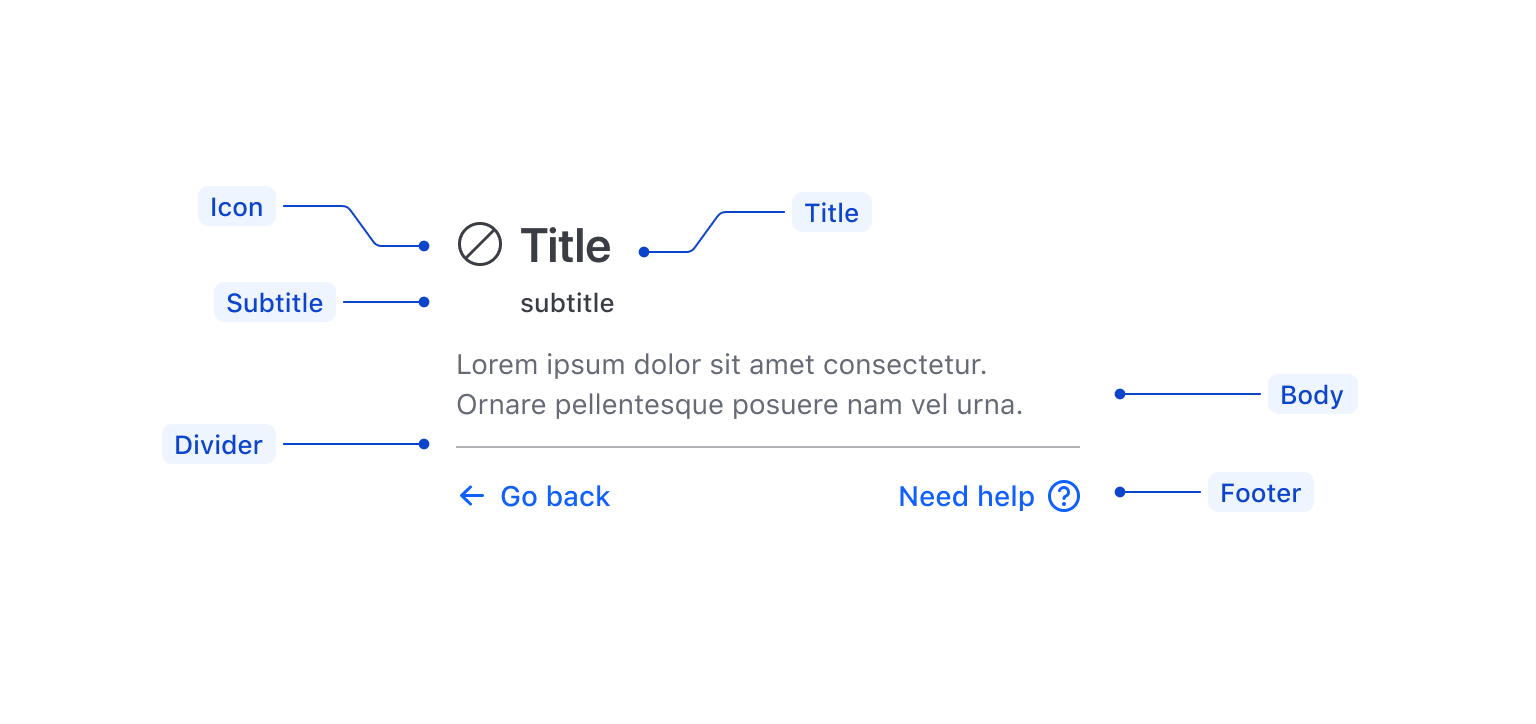
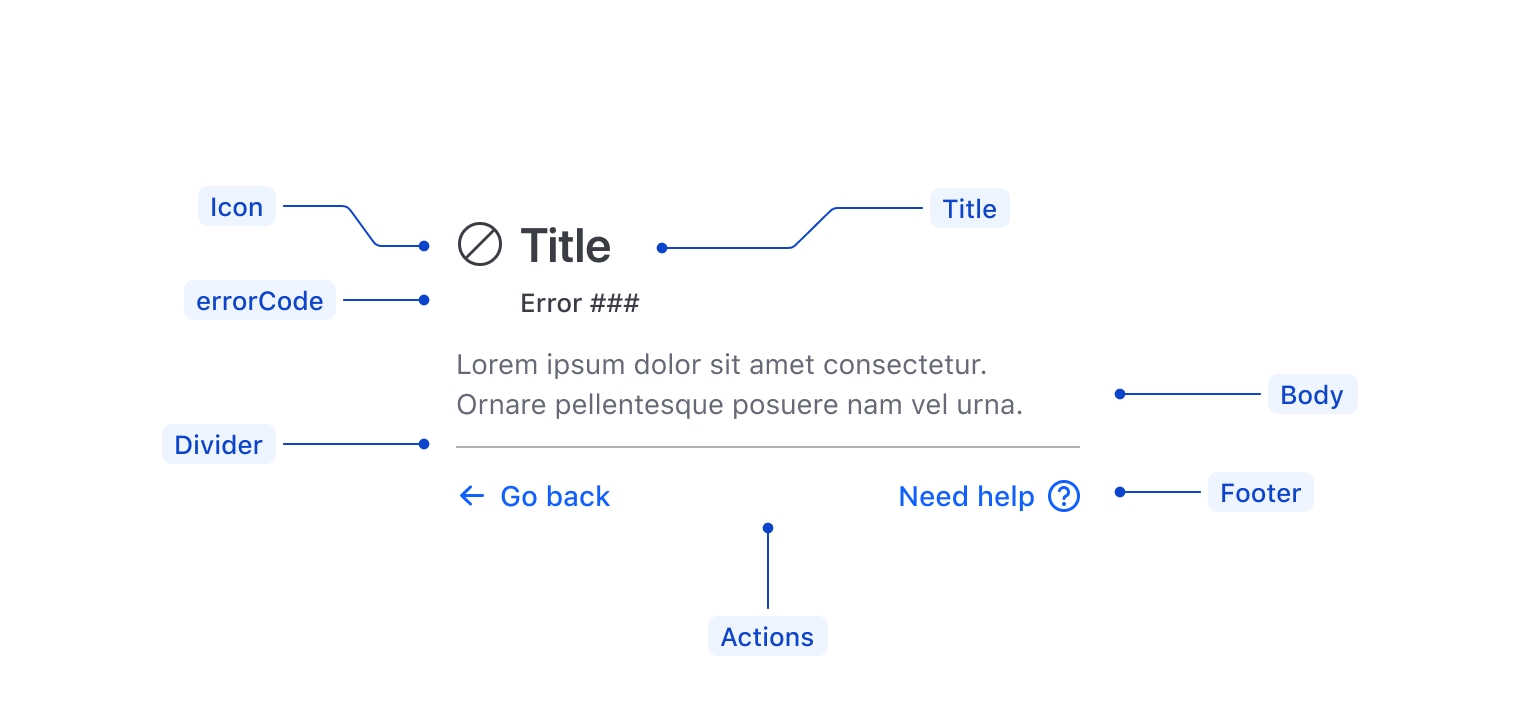
Documentation Update

diff --git a/website/docs/components/application-state/partials/guidelines/guidelines.md b/website/docs/components/application-state/partials/guidelines/guidelines.md
@@ -1,11 +1,27 @@
 ## Usage
 
 ### When to use
-- When the user needs more information to complete a task, you can use footer actions to guide them to the appropriate location for that information.
-- When the user encounters an error or needs to fix a problem, you can use footer actions in the Application State to provide them with appropriate steps to solve the error or obtain access.
+- When a user's action does not yield any results due to incorrect or incomplete input.
+- When an application encounters an issue or error during its operation.
+
 ### When not to use
-An Application State may not be necessary in the following scenarios:
-- Simple interfaces
-- Single-page applications
-- Temporary actions
-- Non-linear user flows
+- When the absence of content is expected and does not require an explanation to the user. 
+- When there is a clear and intuitive way to add or populate content. 
+
+<br/>
+<br/>
+
+### Header 
+- The icon should be relevant and communicate the same purpose as the errorCode.
+- The title should be short to provide a clear and concise message.
+
+### Body 
+- Focus on relevant information and avoid unnecessary details.
+- Provide a straightforward explanation of the problem or error.
+- Suggestions or guidance for how the user can resolve the issue, if possible.
+
+### Footer
+- In the footer, you can include two stand-alone links. It's important to avoid replacing these links with call-to-action buttons (CTA) as doing so may cause misalignment with the code.
+
+#### Divider (optional)
+Dividers are optional but recommended when dividing content and actions. 

diff --git a/website/docs/components/application-state/partials/specifications/anatomy.md b/website/docs/components/application-state/partials/specifications/anatomy.md
@@ -1,3 +1,13 @@
 ## Anatomy
 
-![Anatomy of the application-state component](/assets/components/application-state/application-state-anatomy-page.png =600x*)
+![Anatomy of the application-state component](/assets/components/application-state/application-state-anatomy-page.png)
+
+| Element          | Usage                                           |
+|------------------|-------------------------------------------------|
+| Title            | Required.                                       |
+| Icon             | Optional, but recommended with errorCode.        |
+| errorCode        | Optional, but recommended when in errorState.        |
+| Body             | Required.        |
+| Divider          | Optional, but recommended with dividing actions.        |
+| Footer           | Optional.        |
+| Action           | Required, if no footer; optional.        |

diff --git a/website/docs/components/application-state/index.md b/website/docs/components/application-state/index.md
@@ -1,7 +1,7 @@
 ---
 title: Application State
-description: A step to help the user move forward.
-caption: A step to help the user move forward.
+description: Use the ApplicationState to provide information about the current state of the application.
+caption: Use the ApplicationState to provide information about the current state of the application.
 status: released
 links:
   figma: https://www.figma.com/file/noyY6dUMDYjmySpHcMjhkN/branch/2lNa9Qe4UuF4yN8gcR7Fkp/HDS-Product---Components?node-id=31113%3A50004&t=AgcOxZqO6FWFkdcD-1

diff --git a/website/docs/components/application-state/partials/guidelines/overview.md b/website/docs/components/application-state/partials/guidelines/overview.md
@@ -1,1 +1,1 @@
-Use footer actions to redirect or provide steps to solve errors/access, and include actionable steps for user guidance.
+Use footer actions to redirect or guide users in solving errors/access issues with actionable steps.
